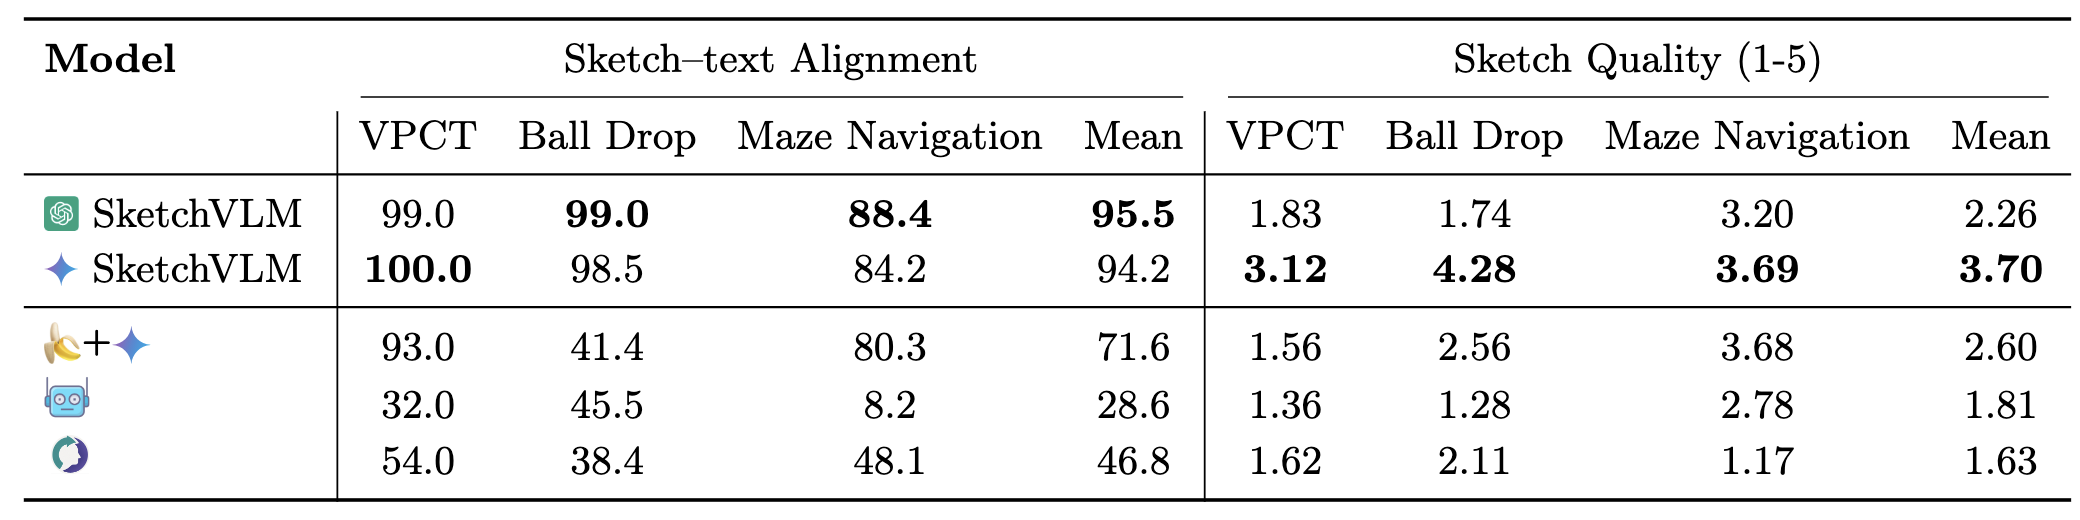
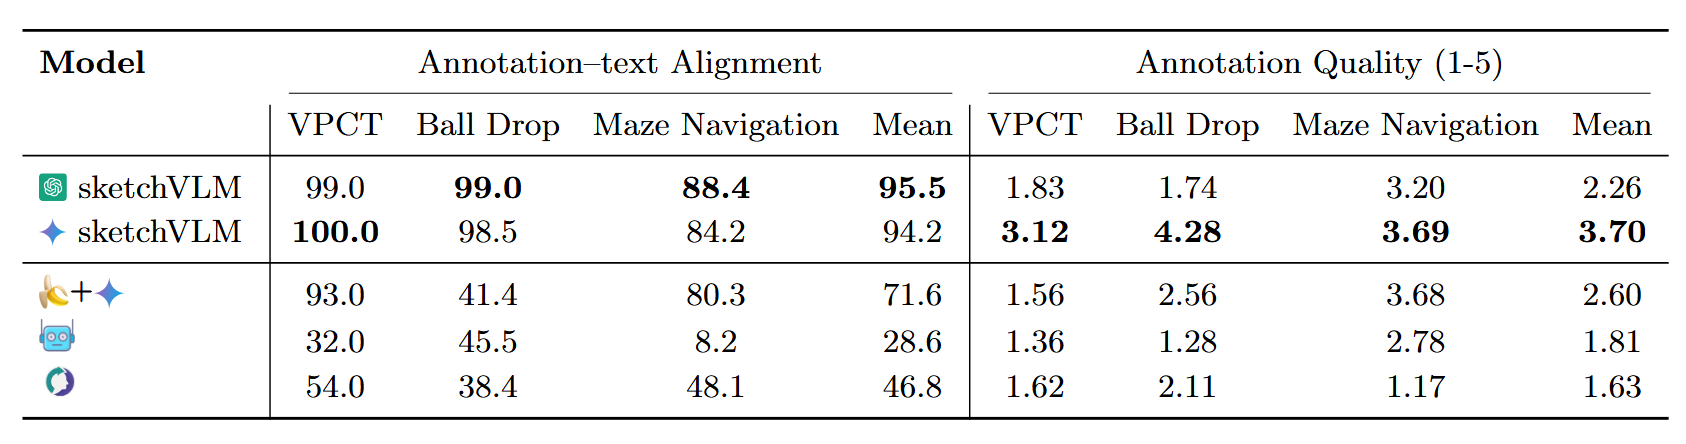
updated images and added demo video

diff --git a/index.html b/index.html
@@ -81,13 +81,20 @@
   </div>
 </section>
 
-<!-- Demo GIF -->
+<!-- Demo Video + GIF -->
 <section class="hero" style="padding-top: 0;">
-  <div class="container is-max-desktop">
+  <div class="container is-max-fullhd">
     <div class="hero-body" style="padding-top: 1rem;">
-      <figure class="image" style="width: 70%; margin: 0 auto;">
-        <img src="images/Adobe_motherboard_x2_compress2.gif" alt="SketchVLM demo" style="border-radius: 8px;">
-      </figure>
+      <div class="columns is-centered" style="align-items: stretch;">
+        <div class="column" style="display: flex;">
+          <iframe src="https://www.youtube.com/embed/AOeM6tYtAMo" frameborder="0" allow="autoplay; encrypted-media" allowfullscreen style="width: 100%; flex: 1; min-height: 0; border-radius: 8px;"></iframe>
+        </div>
+        <div class="column">
+          <figure class="image">
+            <img src="images/Adobe_motherboard_x2_compress2.gif" alt="SketchVLM demo" style="border-radius: 8px; width: 100%;">
+          </figure>
+        </div>
+      </div>
     </div>
   </div>
 </section>
@@ -208,7 +215,7 @@
         <h2 class="title is-3">Evaluation</h2>
         <div class="content">
           <p>
-            We evaluate using three different metrics. <strong>Accuracy</strong> captures whether the model's text answer is correct. <strong>Sketch quality</strong> captures whether the visual annotation is clear and interpretable, scored 1-5 by a VLM judge that evaluates plausibility and visual clarity. <strong>Sketch-answer alignment</strong> captures whether the sketch faithfully reflects the model's stated answer: a VLM judge views only the annotated image, infers an answer from the sketch alone, and we check if it matches the model's text output.
+            We evaluate using three different metrics. <strong>Accuracy</strong> captures whether the model's text answer is correct. <strong>Annotation quality</strong> captures whether the visual annotation is clear and interpretable, scored 1-5 by a VLM judge that evaluates plausibility and visual clarity. <strong>Annotation-text alignment</strong> captures whether the sketch faithfully reflects the model's stated answer: a VLM judge views only the annotated image, infers an answer from the sketch alone, and we check if it matches the model's text output.
           </p>
         </div>
       </div>
@@ -237,7 +244,7 @@
     <div class="columns is-centered">
       <div class="column is-four-fifths">
         <p class="has-text-centered figure-caption">
-          <img src="logos/nanobanana.png" class="task-logo" alt="Nanobanana"> generates a different image and predicts an incorrect count. <img src="logos/gemini_main.png" class="task-logo" alt="Gemini"> directly outputs a number and severely undercounts, while <img src="logos/gemini_main.png" class="task-logo" alt="Gemini"> SketchVLM outputs the correct answer and produces visual annotations to explain its answer.
+          <img src="logos/nanobanana.png" class="task-logo" alt="Nanobanana"> generates a different image and predicts an incorrect count. <img src="logos/gemini_main.png" class="task-logo" alt="Gemini"> directly outputs a number and severely undercounts, while <img src="logos/gemini_main.png" class="task-logo" alt="Gemini"> sketchVLM outputs the correct answer and produces visual annotations to explain its answer.
         </p>
 
         <h4 class="title is-5 has-text-centered" style="margin-top:2rem;">
@@ -255,7 +262,7 @@
     <div class="columns is-centered">
       <div class="column is-four-fifths">
         <p class="has-text-centered figure-caption">
-          When prompted to outline the classes "person" and "sports-ball", <img src="logos/nanobanana.png" class="task-logo" alt="Nanobanana"> replaces the original image with a newly generated one, whereas SketchVLM preserves the original image and draws shapes that accurately align with object boundaries and locations.
+          When prompted to outline the classes "person" and "sports-ball", <img src="logos/nanobanana.png" class="task-logo" alt="Nanobanana"> replaces the original image with a newly generated one, whereas SketchVLMs preserve the original image and draw shapes that accurately align with object boundaries and locations.
         </p>
 
         <h4 class="title is-5 has-text-centered" style="margin-top:2rem;">
@@ -273,7 +280,7 @@
     <div class="columns is-centered">
       <div class="column is-four-fifths">
         <p class="has-text-centered figure-caption">
-          Qualitative comparison on the part labeling task. <img src="logos/gemini_main.png" class="task-logo" alt="Gemini"> SketchVLM places each part label directly on its corresponding region while preserving the original image, producing more interpretable part annotations than <img src="logos/nanobanana.png" class="task-logo" alt="Nanobanana">.
+          Qualitative comparison on the part labeling task. <img src="logos/gemini_main.png" class="task-logo" alt="Gemini"> sketchVLM places each part label directly on its corresponding region while preserving the original image, producing more interpretable part annotations than <img src="logos/nanobanana.png" class="task-logo" alt="Nanobanana">.
         </p>
 
         <h4 class="title is-5 has-text-centered" style="margin-top:2rem;">
@@ -313,13 +320,13 @@
 
     <div class="content">
       <p>
-        SketchVLM produces accurate visual reasoning traces while maintaining competitive or superior task accuracy. Fine-tuned sketching models perform near random chance on visual reasoning tasks, and Nano Banana Pro frequently alters the original image, undermining trustworthiness.
+        SketchVLMs produce accurate visual reasoning traces while maintaining competitive or superior task accuracy. Fine-tuned sketching models perform near random chance on visual reasoning tasks, and Nano Banana Pro frequently alters the original image, undermining trustworthiness.
       </p>
       <figure class="image" style="margin-top: 1rem;">
         <img src="images/sketch_accuracy.png" alt="Accuracy results table">
       </figure>
       <p style="margin-top: 1.5rem;">
-        Beyond accuracy, SketchVLM consistently produces higher-quality sketches that more faithfully reflect the model's stated answer. Baselines either generate low-quality annotations or produce sketches that contradict their own text output.
+        Beyond accuracy, SketchVLMs consistently produce higher-quality sketches that more faithfully reflect the model's stated answer. Baselines either generate low-quality annotations or produce sketches that contradict their own text output.
       </p>
       <figure class="image" style="margin-top: 1rem;">
         <img src="images/sketch_quality_alignment.png" alt="Sketch quality and alignment results table">
@@ -388,7 +395,7 @@
         </div>
 
         <p class="has-text-centered figure-caption" style="margin-top:1rem;">
-          SketchVLM can be used in a variety of real world use cases.
+          SketchVLMs can be used in a variety of real world use cases.
         </p>
       </div>
     </div>
